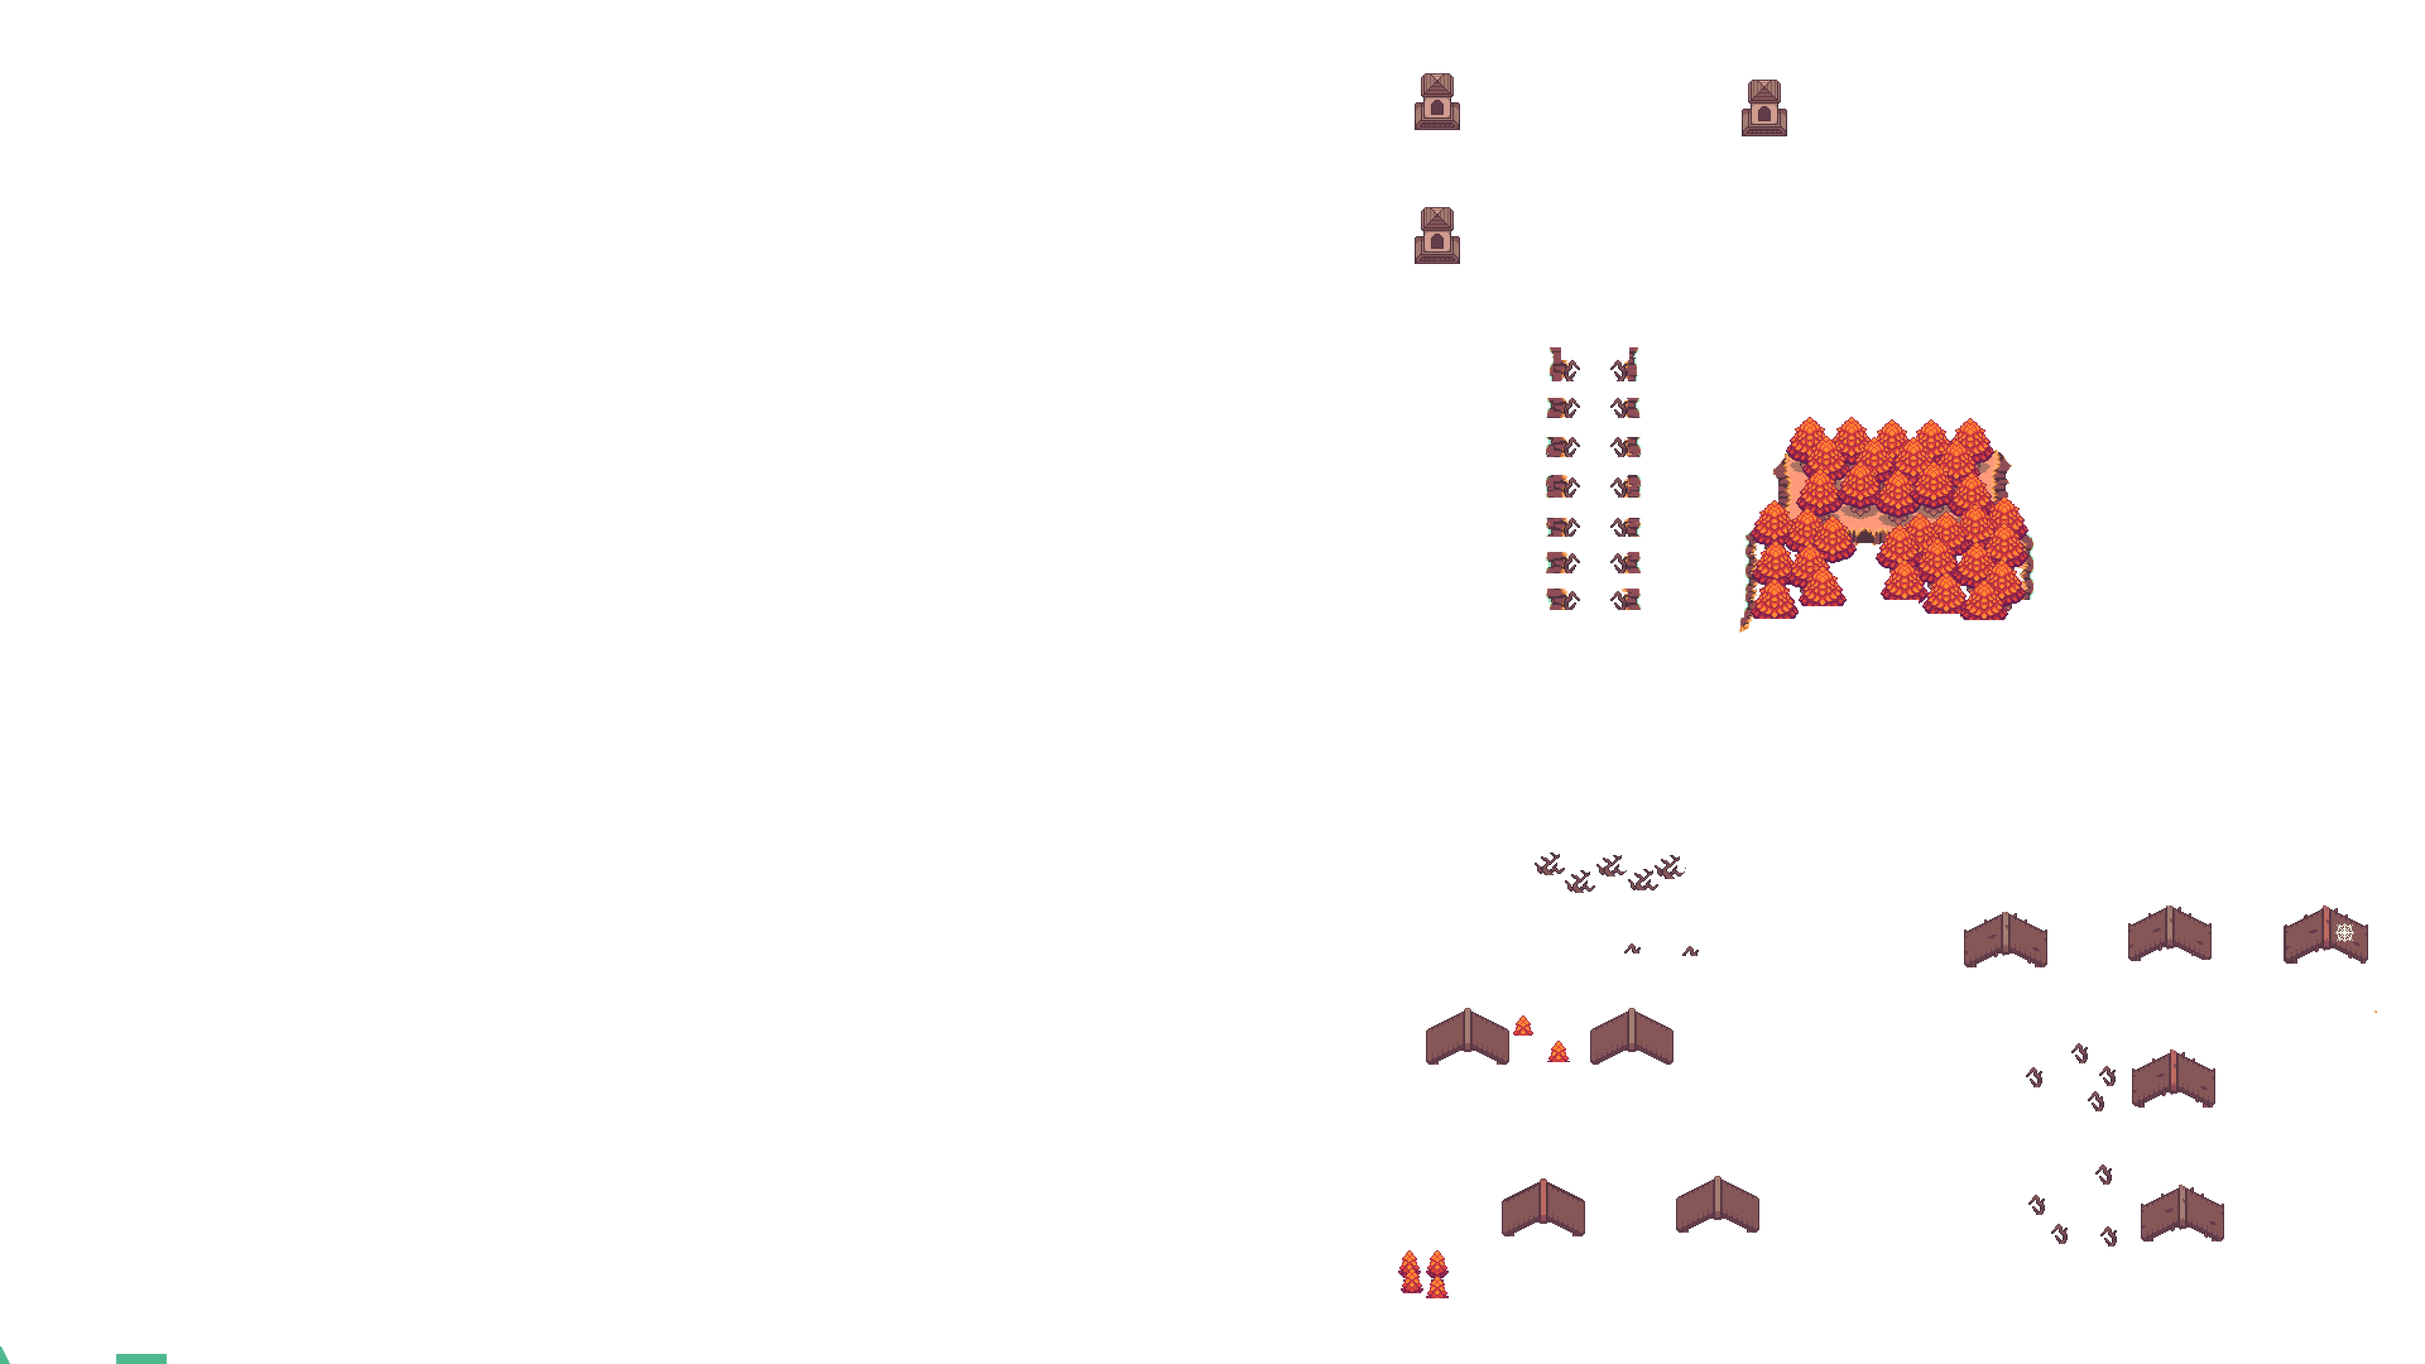
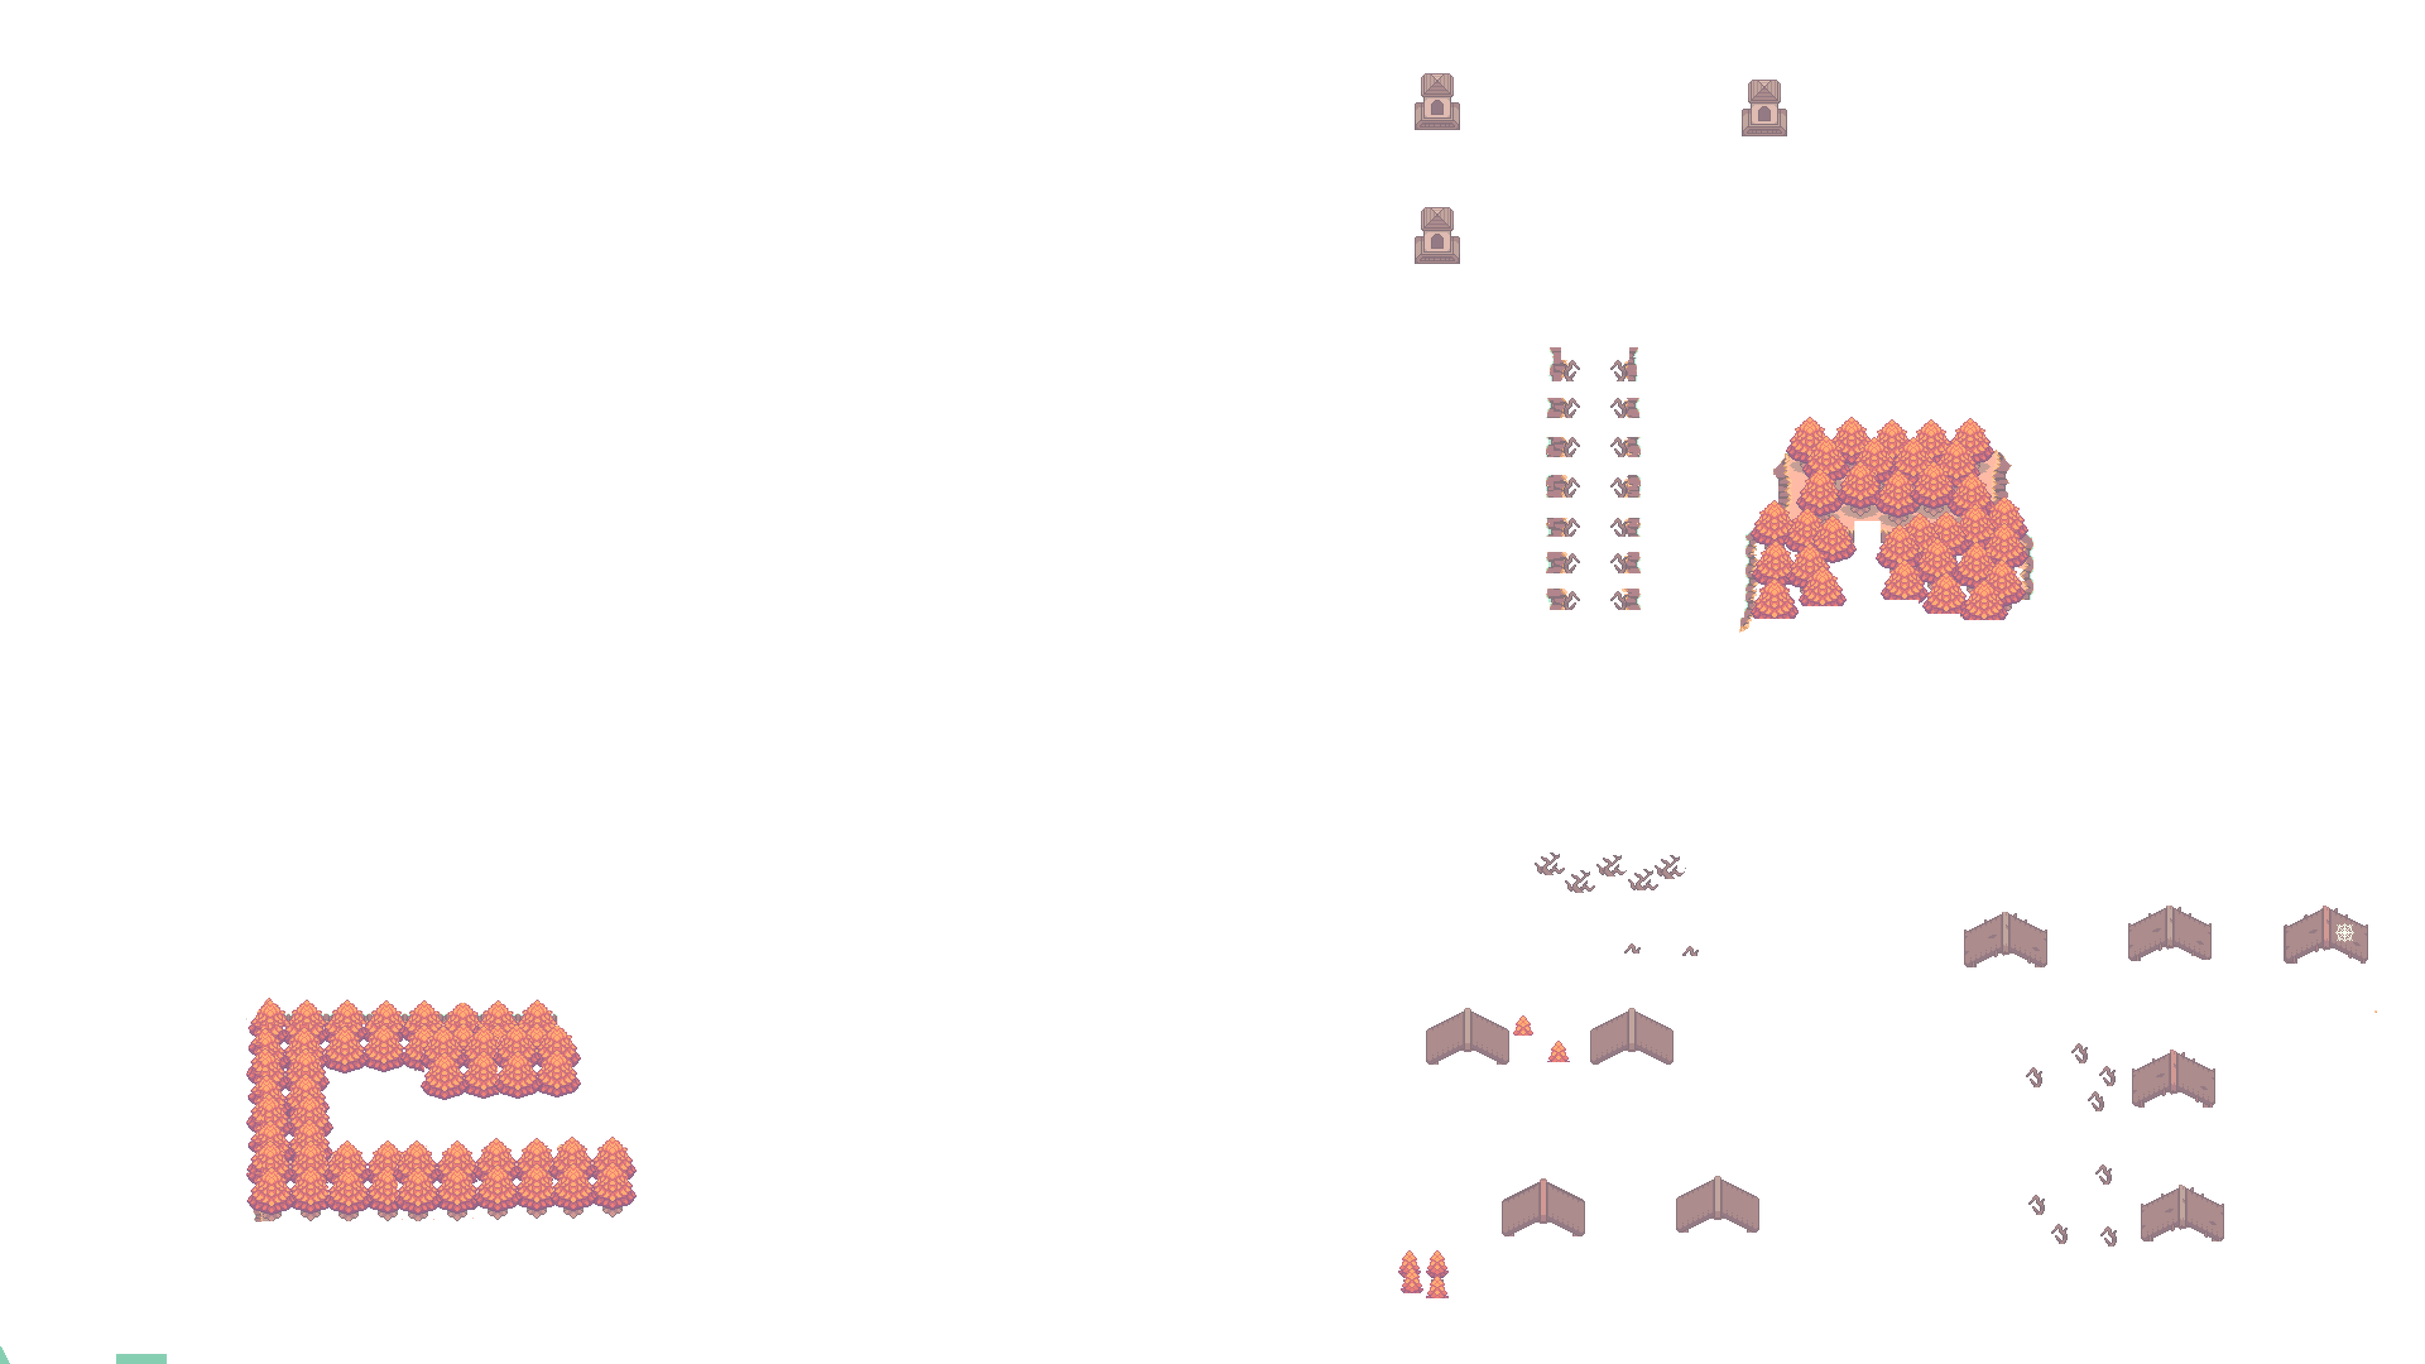
Add new 3d maps with less opacity

diff --git a/src/game/player_movements.c b/src/game/player_movements.c
@@ -7,26 +7,27 @@
 
 #include "includes.h"
 #include "game.h"
+#include "player.h"
 
 static void go_right(game_t *g, int s)
 {
     g->player.body.rect.top = 96;
     for (int i = 2; i < g->scene[s].nb_elem; i++)
         if (collision(g->player.body, g->scene[s].elem[i],
-        (sfVector2i){10, 0}))
+        (sfVector2i){g->player.speed, 0}))
             return;
     for (int i = 2; i < g->scene[s].nb_elem; i++) {
-        g->scene[s].elem[i].pos.x -= 10;
+        g->scene[s].elem[i].pos.x -= g->player.speed;
         Set_Pos(g->scene[s].elem[i].sprite, g->scene[s].elem[i].pos.x,
         g->scene[s].elem[i].pos.y);
     }
     for (int i = 0; i < g->scene[s].nb_interest; i++) {
-        g->scene[s].interest[i].body.pos.x -= 10;
+        g->scene[s].interest[i].body.pos.x -= g->player.speed;
         Set_Pos(g->scene[s].interest[i].body.sprite, g->scene[s].interest
         [i].body.pos.x, g->scene[s].interest[i].body.pos.y);
     }
-    g->scene[s].elem[0].rect.left += 10;
-    g->scene[s].elem[1].rect.left += 10;
+    g->scene[s].elem[0].rect.left += g->player.speed;
+    g->scene[s].elem[1].rect.left += g->player.speed;
 }
 
 static void go_left(game_t *g, int s)
@@ -34,20 +35,20 @@ static void go_left(game_t *g, int s)
     g->player.body.rect.top = 48;
     for (int i = 2; i < g->scene[s].nb_elem; i++)
         if (collision(g->player.body, g->scene[s].elem[i],
-        (sfVector2i){-10, 0}))
+        (sfVector2i){-g->player.speed, 0}))
             return;
     for (int i = 2; i < g->scene[s].nb_elem; i++) {
-        g->scene[s].elem[i].pos.x += 10;
+        g->scene[s].elem[i].pos.x += g->player.speed;
         Set_Pos(g->scene[s].elem[i].sprite, g->scene[s].elem[i].pos.x,
         g->scene[s].elem[i].pos.y);
     }
     for (int i = 0; i < g->scene[s].nb_interest; i++) {
-        g->scene[s].interest[i].body.pos.x += 10;
+        g->scene[s].interest[i].body.pos.x += g->player.speed;
         Set_Pos(g->scene[s].interest[i].body.sprite, g->scene[s].interest
         [i].body.pos.x, g->scene[s].interest[i].body.pos.y);
     }
-    g->scene[s].elem[0].rect.left -= 10;
-    g->scene[s].elem[1].rect.left -= 10;
+    g->scene[s].elem[0].rect.left -= g->player.speed;
+    g->scene[s].elem[1].rect.left -= g->player.speed;
 }
 
 static void go_up(game_t *g, int s)
@@ -55,20 +56,20 @@ static void go_up(game_t *g, int s)
     g->player.body.rect.top = 144;
     for (int i = 2; i < g->scene[s].nb_elem; i++)
         if (collision(g->player.body, g->scene[s].elem[i],
-        (sfVector2i){0, -10}))
+        (sfVector2i){0, -g->player.speed}))
             return;
     for (int i = 2; i < g->scene[s].nb_elem; i++) {
-        g->scene[s].elem[i].pos.y += 10;
+        g->scene[s].elem[i].pos.y += g->player.speed;
         Set_Pos(g->scene[s].elem[i].sprite, g->scene[s].elem[i].pos.x,
         g->scene[s].elem[i].pos.y);
     }
     for (int i = 0; i < g->scene[s].nb_interest; i++) {
-        g->scene[s].interest[i].body.pos.y += 10;
+        g->scene[s].interest[i].body.pos.y += g->player.speed;
         Set_Pos(g->scene[s].interest[i].body.sprite, g->scene[s].interest
         [i].body.pos.x, g->scene[s].interest[i].body.pos.y);
     }
-    g->scene[s].elem[0].rect.top -= 10;
-    g->scene[s].elem[1].rect.top -= 10;
+    g->scene[s].elem[0].rect.top -= g->player.speed;
+    g->scene[s].elem[1].rect.top -= g->player.speed;
 }
 
 static void go_down(game_t *g, int s)
@@ -76,20 +77,20 @@ static void go_down(game_t *g, int s)
     g->player.body.rect.top = 0;
     for (int i = 2; i < g->scene[s].nb_elem; i++)
         if (collision(g->player.body, g->scene[s].elem[i],
-        (sfVector2i){0, 10}))
+        (sfVector2i){0, g->player.speed}))
             return;
     for (int i = 2; i < g->scene[s].nb_elem; i++) {
-        g->scene[s].elem[i].pos.y -= 10;
+        g->scene[s].elem[i].pos.y -= g->player.speed;
         Set_Pos(g->scene[s].elem[i].sprite, g->scene[s].elem[i].pos.x,
         g->scene[s].elem[i].pos.y);
     }
     for (int i = 0; i < g->scene[s].nb_interest; i++) {
-        g->scene[s].interest[i].body.pos.y -= 10;
+        g->scene[s].interest[i].body.pos.y -= g->player.speed;
         Set_Pos(g->scene[s].interest[i].body.sprite, g->scene[s].interest
         [i].body.pos.x, g->scene[s].interest[i].body.pos.y);
     }
-    g->scene[s].elem[0].rect.top += 10;
-    g->scene[s].elem[1].rect.top += 10;
+    g->scene[s].elem[0].rect.top += g->player.speed;
+    g->scene[s].elem[1].rect.top += g->player.speed;
 }
 
 void movement(game_t *g)

diff --git a/src/vampire/player_vampire_movements.c b/src/vampire/player_vampire_movements.c
@@ -13,11 +13,11 @@ static void go_right(game_t *g)
     g->player.body.rect.top = 96;
     if (g->scene[3].elem[0].rect.left >= 7680)
         return;
-    for (int i = 1; i < g->scene[3].nb_elem; i++)
+    for (int i = 2; i < g->scene[3].nb_elem; i++)
         if (vampire_collision(g->player.body, g->scene[3].elem[i],
         (sfVector2i){10, 0}))
             return;
-    for (int i = 1; i < g->scene[3].nb_elem; i++) {
+    for (int i = 2; i < g->scene[3].nb_elem; i++) {
         g->scene[3].elem[i].pos.x -= 10;
         Set_Pos(g->scene[3].elem[i].sprite, g->scene[3].elem[i].pos.x,
         g->scene[3].elem[i].pos.y);
@@ -35,11 +35,11 @@ static void go_left(game_t *g)
     g->player.body.rect.top = 48;
     if (g->scene[3].elem[0].rect.left <= -960)
         return;
-    for (int i = 1; i < g->scene[3].nb_elem; i++)
+    for (int i = 2; i < g->scene[3].nb_elem; i++)
         if (vampire_collision(g->player.body, g->scene[3].elem[i],
         (sfVector2i){-10, 0}))
             return;
-    for (int i = 1; i < g->scene[3].nb_elem; i++) {
+    for (int i = 2; i < g->scene[3].nb_elem; i++) {
         g->scene[3].elem[i].pos.x += 10;
         Set_Pos(g->scene[3].elem[i].sprite, g->scene[3].elem[i].pos.x,
         g->scene[3].elem[i].pos.y);
@@ -57,11 +57,11 @@ static void go_up(game_t *g)
     g->player.body.rect.top = 144;
     if (g->scene[3].elem[0].rect.top >= 4320)
         return;
-    for (int i = 1; i < g->scene[3].nb_elem; i++)
+    for (int i = 2; i < g->scene[3].nb_elem; i++)
         if (vampire_collision(g->player.body, g->scene[3].elem[i],
         (sfVector2i){0, -10}))
             return;
-    for (int i = 1; i < g->scene[3].nb_elem; i++) {
+    for (int i = 2; i < g->scene[3].nb_elem; i++) {
         g->scene[3].elem[i].pos.y += 10;
         Set_Pos(g->scene[3].elem[i].sprite, g->scene[3].elem[i].pos.x,
         g->scene[3].elem[i].pos.y);
@@ -79,11 +79,11 @@ static void go_down(game_t *g)
     g->player.body.rect.top = 0;
     if (g->scene[3].elem[0].rect.top <= -540)
         return;
-    for (int i = 1; i < g->scene[3].nb_elem; i++)
+    for (int i = 2; i < g->scene[3].nb_elem; i++)
         if (vampire_collision(g->player.body, g->scene[3].elem[i],
         (sfVector2i){0, 10}))
             return;
-    for (int i = 1; i < g->scene[3].nb_elem; i++) {
+    for (int i = 2; i < g->scene[3].nb_elem; i++) {
         g->scene[3].elem[i].pos.y -= 10;
         Set_Pos(g->scene[3].elem[i].sprite, g->scene[3].elem[i].pos.x,
         g->scene[3].elem[i].pos.y);

diff --git a/src/game/event_game.c b/src/game/event_game.c
@@ -7,6 +7,7 @@
 
 #include "includes.h"
 #include "game.h"
+#include "player.h"
 
 void check_action(game_t *g)
 {
@@ -47,11 +48,15 @@ void event_game(game_t *g)
 
     if (g->event.type == sfEvtClosed || Key_Pressed(sfKeyEscape))
         quit_game(g);
-    if (Key_Pressed(sfKeySpace) && g->t.sec - g->cooldown > 0.3) {
+    if (Key_Pressed(sfKeySpace) && g->t.sec - g->cooldown >= 0.15) {
         check_action(g);
         g->cooldown = g->t.sec;
     }
-    if (sfKeyboard_isKeyPressed(sfKeyP) && g->t.sec - g->t.pause > 0.3)
+    if (Key_Pressed(sfKeyA) && g->t.sec - g->cooldown >= 0.15) {
+        g->player.speed = g->player.speed == SPEED ? SPEED + 5 : SPEED;
+        g->cooldown = g->t.sec;
+    }
+    if (Key_Pressed(sfKeyP) && g->t.sec - g->t.pause > 0.3)
         pause_game(g);
     check_button(g, Get_Mouse_Pos(), Get_Window_size());
 }

diff --git a/src/create_struct.c b/src/create_struct.c
@@ -6,6 +6,7 @@
 */
 
 #include "includes.h"
+#include "player.h"
 
 body_t create_body(char *text, sfIntRect rect, sfVector2f pos)
 {
@@ -30,7 +31,7 @@ void (*action)(game_t *))
 
 player_t create_player(void)
 {
-    sfText *name = create_text(50, (sfVector2f){200, 40}, "Timmy",
+    sfText *name = create_text(50, (sfVector2f){200, 40}, NAME,
     "other/button.ttf");
     body_t body = create_body(NPC[16], (sfIntRect) {0, 0, 48, 48},
     (sfVector2f){940, 540});
@@ -44,7 +45,7 @@ player_t create_player(void)
     for (int i = 0; i < 11; i++)
         inventory[i] = create_object(OBJ[i], 0, 0, 0);
     Set_Scale(picture.sprite, 0.07, 0.07);
-    player_t player = {name, body, inventory, pv_bar, picture, 100, 50};
+    player_t player = {name, body, inventory, pv_bar, picture, SPEED, PV, 50};
     return (player);
 }
 

diff --git a/src/cimetery/event_cimetery.c b/src/cimetery/event_cimetery.c
@@ -7,6 +7,7 @@
 
 #include "includes.h"
 #include "cimetery.h"
+#include "player.h"
 
 static void check_action(game_t *g)
 {
@@ -53,9 +54,8 @@ void event_cimetery(game_t *g)
     if (sfKeyboard_isKeyPressed(sfKeyP) && g->t.sec - g->t.pause > 0.3)
         pause_game(g);
     check_button(g, Get_Mouse_Pos(), Get_Window_size());
-    //if (Key_Pressed(sfKeyUp) || Key_Pressed(sfKeyDown) ||
-    //Key_Pressed(sfKeyRight) || Key_Pressed(sfKeyLeft))
-    //    cimetery_movement(g);
-    //else
-    //    Set_Texture(g->player.body.sprite, NPC[16]);
+    if (Key_Pressed(sfKeyA) && g->t.sec - g->cooldown >= 0.15) {
+        g->player.speed = g->player.speed == SPEED ? SPEED + 5 : SPEED;
+        g->cooldown = g->t.sec;
+    }
 }

diff --git a/src/vampire/event_vampire.c b/src/vampire/event_vampire.c
@@ -7,6 +7,7 @@
 
 #include "includes.h"
 #include "vampire.h"
+#include "player.h"
 
 static void check_action(game_t *g)
 {
@@ -53,9 +54,8 @@ void event_vampire(game_t *g)
     if (sfKeyboard_isKeyPressed(sfKeyP) && g->t.sec - g->t.pause > 0.3)
         pause_game(g);
     check_button(g, Get_Mouse_Pos(), Get_Window_size());
-    //if (Key_Pressed(sfKeyUp) || Key_Pressed(sfKeyDown) ||
-    //Key_Pressed(sfKeyRight) || Key_Pressed(sfKeyLeft))
-    //    vampire_movement(g);
-    //else
-    //    Set_Texture(g->player.body.sprite, NPC[16]);
+    if (Key_Pressed(sfKeyA) && g->t.sec - g->cooldown >= 0.15) {
+        g->player.speed = g->player.speed == SPEED ? SPEED + 5 : SPEED;
+        g->cooldown = g->t.sec;
+    }
 }

diff --git a/src/forest/event_forest.c b/src/forest/event_forest.c
@@ -7,6 +7,7 @@
 
 #include "includes.h"
 #include "forest.h"
+#include "player.h"
 
 static void check_action(game_t *g)
 {
@@ -53,9 +54,8 @@ void event_forest(game_t *g)
     if (sfKeyboard_isKeyPressed(sfKeyP) && g->t.sec - g->t.pause > 0.3)
         pause_game(g);
     check_button(g, Get_Mouse_Pos(), Get_Window_size());
-    //if (Key_Pressed(sfKeyUp) || Key_Pressed(sfKeyDown) ||
-    //Key_Pressed(sfKeyRight) || Key_Pressed(sfKeyLeft))
-    //    forest_movement(g);
-    //else
-    //    Set_Texture(g->player.body.sprite, NPC[16]);
+    if (Key_Pressed(sfKeyA) && g->t.sec - g->cooldown >= 0.15) {
+        g->player.speed = g->player.speed == SPEED ? SPEED + 5 : SPEED;
+        g->cooldown = g->t.sec;
+    }
 }

diff --git a/src/ghost/event_ghost.c b/src/ghost/event_ghost.c
@@ -7,6 +7,7 @@
 
 #include "includes.h"
 #include "ghost.h"
+#include "player.h"
 
 static void check_action(game_t *g)
 {
@@ -53,9 +54,8 @@ void event_ghost(game_t *g)
     if (sfKeyboard_isKeyPressed(sfKeyP) && g->t.sec - g->t.pause > 0.3)
         pause_game(g);
     check_button(g, Get_Mouse_Pos(), Get_Window_size());
-    //if (Key_Pressed(sfKeyUp) || Key_Pressed(sfKeyDown) ||
-    //Key_Pressed(sfKeyRight) || Key_Pressed(sfKeyLeft))
-    //    ghost_movement(g);
-    //else
-    //    Set_Texture(g->player.body.sprite, NPC[16]);
+    if (Key_Pressed(sfKeyA) && g->t.sec - g->cooldown >= 0.15) {
+        g->player.speed = g->player.speed == SPEED ? SPEED + 5 : SPEED;
+        g->cooldown = g->t.sec;
+    }
 }

diff --git a/src/game/anim_game.c b/src/game/anim_game.c
@@ -23,11 +23,17 @@ static void anim_interest(game_t *g)
 void anim_game(game_t *g)
 {
     static float tmp = 0.0;
+    static float tmp2 = 0.0;
+    float delay_player = g->player.speed == 10 ? 0.15 : 0.10;
 
     if (g->t.sec - tmp >= 0.15) {
         anim_interest(g);
-        g->player.body.rect.left += g->player.body.rect.left >= 144 ? -144 : 48;
-        Set_Texture_Rect(g->player.body.sprite, g->player.body.rect);
         tmp = g->t.sec;
+    }
+    if (g->t.sec - tmp2 >= delay_player) {
+        g->player.body.rect.left += g->player.body.rect.left >= 144 ? -144 :
+        48;
+        Set_Texture_Rect(g->player.body.sprite, g->player.body.rect);
+        tmp2 = g->t.sec;
     }
 }

diff --git a/src/game/create_block.c b/src/game/create_block.c
@@ -106,10 +106,10 @@ static body_t *create_block_2(body_t *elem)
 
 body_t *create_block(body_t *elem)
 {
-    elem[2] = create_body("other/block.png", (sfIntRect){0, 0, 1025, 250},
+    elem[2] = create_body("other/blue_block.png", (sfIntRect){0, 0, 1025, 260},
     (sfVector2f){600, 180});
-    elem[3] = create_body("other/block.png", (sfIntRect){0, 0, 1200, 300},
-    (sfVector2f){600, 670});
+    elem[3] = create_body("other/green_block.png", (sfIntRect){0, 0, 1200, 300},
+    (sfVector2f){600, 770});
     elem[4] = create_body("other/block.png", (sfIntRect){0, 0, 220, 490},
     (sfVector2f){600, 200});
     elem[5] = create_body("other/block.png", (sfIntRect){0, 0, 500, 115},

diff --git a/src/cimetery/init_elem_cimetery.c b/src/cimetery/init_elem_cimetery.c
@@ -12,9 +12,9 @@ body_t *init_cimetery_elem(sfRenderWindow *window, int nb_elem)
 {
     body_t *elem = malloc(sizeof(body_t) * nb_elem);
 
-    elem[0] = create_body("map/cimetery.png", (sfIntRect){0, 0, 1920, 1080},
+    elem[0] = create_body("map/cimetery.png", (sfIntRect){535, 830, 1920, 1080},
     (sfVector2f){0, 0});
-    elem[1] = create_body("map/cimetery.png", (sfIntRect){0, 0, 1920, 1080},
+    elem[1] = create_body("map/cimetery3d.png", (sfIntRect){535, 830, 1920, 1080},
     (sfVector2f){0, 0});
     return (elem);
 }

diff --git a/src/cimetery/draw_cimetery.c b/src/cimetery/draw_cimetery.c
@@ -13,8 +13,8 @@ void draw_cimetery(game_t *g)
     Draw_Sprite(g->scene[8].elem[0].sprite);
     for (int i = 0; i < 4; i++) //affichage interest point
         Draw_Sprite(g->scene[8].interest[i].body.sprite);
-    Draw_Sprite(g->scene[8].elem[1].sprite);
     draw_player(g);
+    Draw_Sprite(g->scene[8].elem[1].sprite);
     for (int i = 0; i < g->scene[8].nb_button; i++)
         Draw_Sprite(g->scene[8].button[i].body.sprite);
     //for (int i = 1; i < g->scene[8].nb_elem; i++) //affichage box collisions
